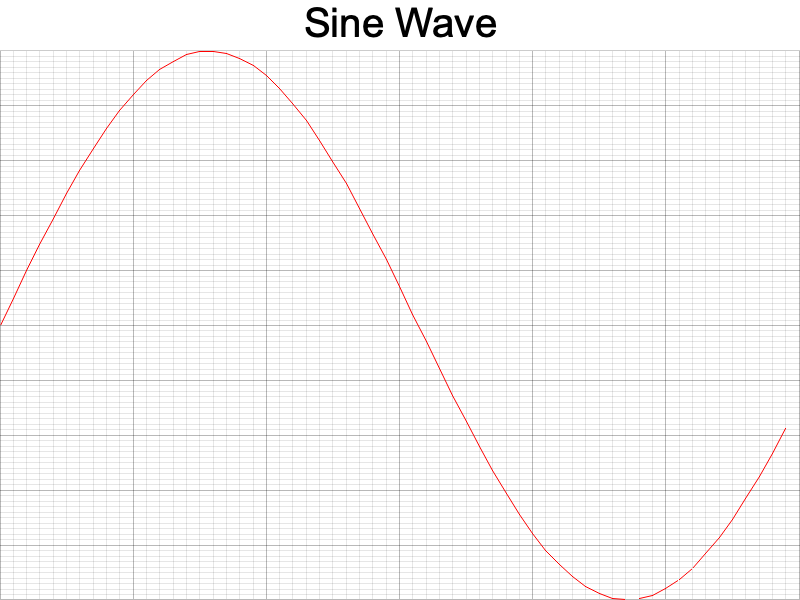
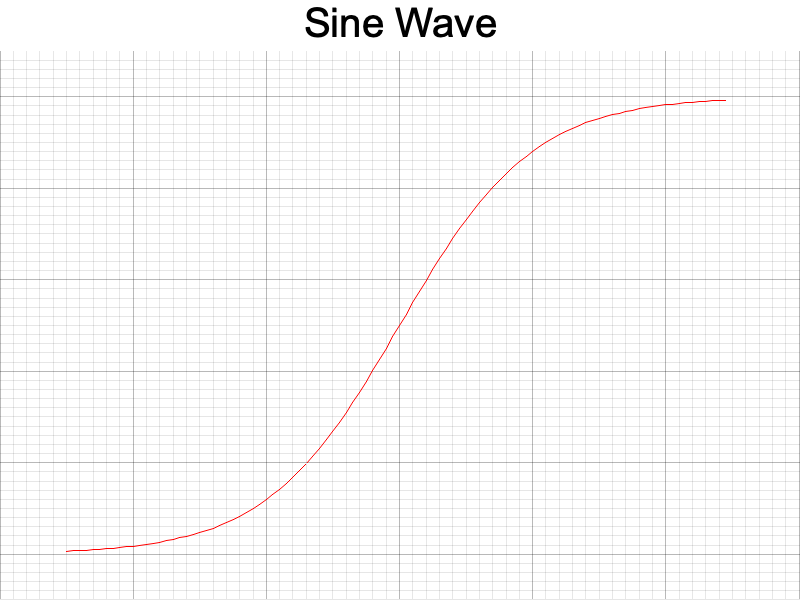
feat:sigmoid

Changed region(s): [[0.0, 0.06, 1.0, 1.0]]

diff --git a/src/algorithm/bottom_2.rs b/src/algorithm/bottom_2.rs
@@ -1,6 +1,8 @@
 use std::array;
 
 use ndarray::prelude::*;
+use plotters::prelude::*;
+
 /*
 신경망
 
@@ -153,10 +155,34 @@ pub fn main(){
 let x= arr1(&[-5.0,5.0,0.1]);
 let y = stet_function(x);
 
-/*시그모이드 함수 구현
-*/
-/*다차원 배열 */
+/*시그모이드 함수 구현*/
+let  x = Array1::from(vec![-1.0, 1.0, 2.0]);
+println!("{}",sigmoid(&x));
 
+let t= arr1(&[1.0,2.0,3.0]);
+println!("{}",1.0+&t);
+
+println!("{}",1.0/&t);
+
+
+let  x = Array::range(-5.0, 5., 0.1);
+let y= sigmoid(&x);
+
+      // 그래프 그리기
+      let root: DrawingArea<BitMapBackend<'_>, plotters::coord::Shift> = BitMapBackend::new("sigmoid_function.png", (800, 600)).into_drawing_area();
+      root.fill(&WHITE).unwrap();
+     //0에서 6까지 0.1간격으로 생성
+      let mut chart = ChartBuilder::on(&root)
+          .caption("sigmoid", ("sans-serif", 50))
+          .build_cartesian_2d(-6.0..6.0, -0.1..1.1)
+          .unwrap();
+  
+      chart.configure_mesh().draw().unwrap();
+      chart.draw_series(LineSeries::new(x.iter().cloned().zip(y.iter().cloned()), &RED)).unwrap();
+    
+
+
+/*다차원 배열 */
 let a= arr1(&[1,2,3,4]);
 print!("{}",a);
 
@@ -228,10 +254,12 @@ let a1 = x.dot(&w1)+b1;
 println!("{:?}",a1.shape());
 
 
+
+
 }
 //시그모이드 
 
 
-fn sigmoid(){
-
+fn sigmoid(x: &Array1<f64>) -> Array1<f64> {
+  x.map(|val| 1.0 / (1.0 + f64::exp(-val)))
 }
